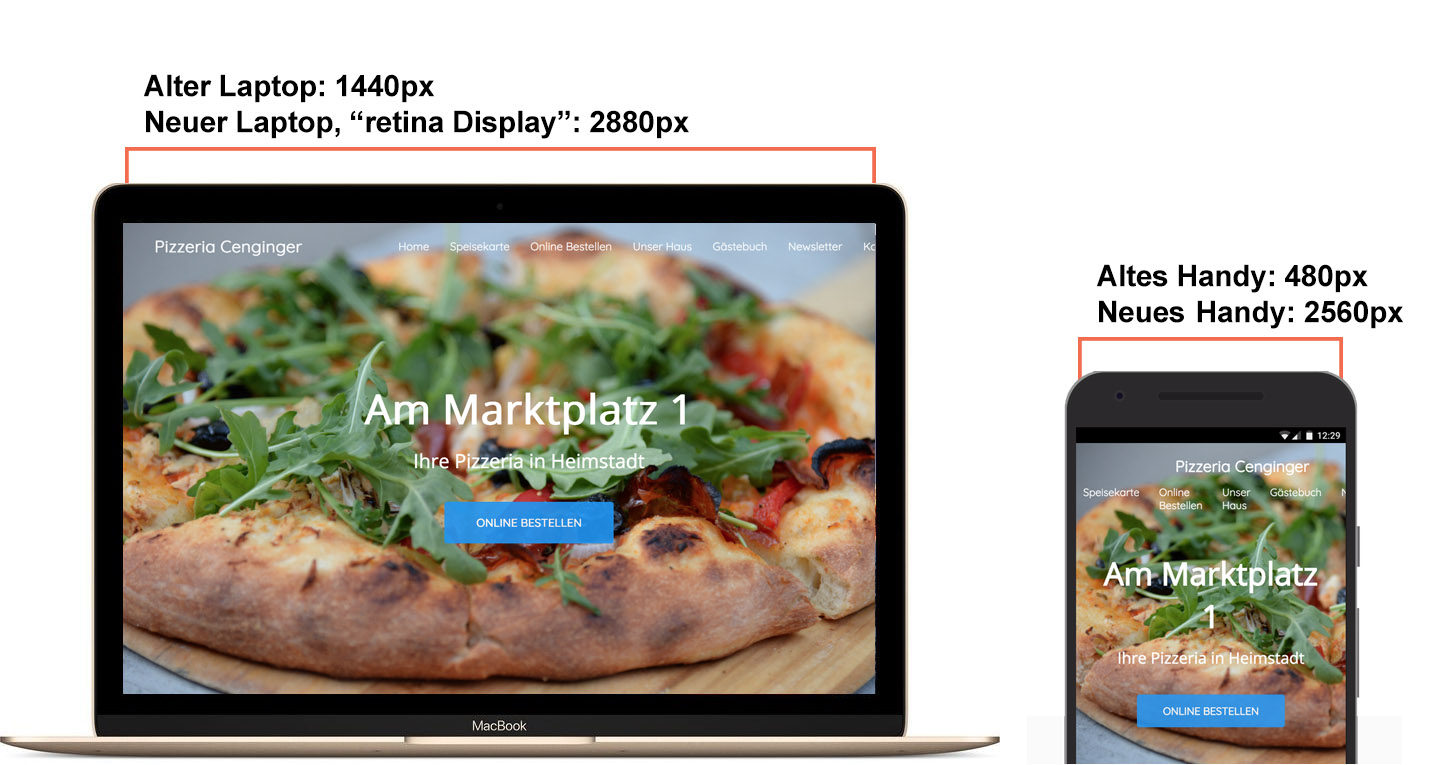
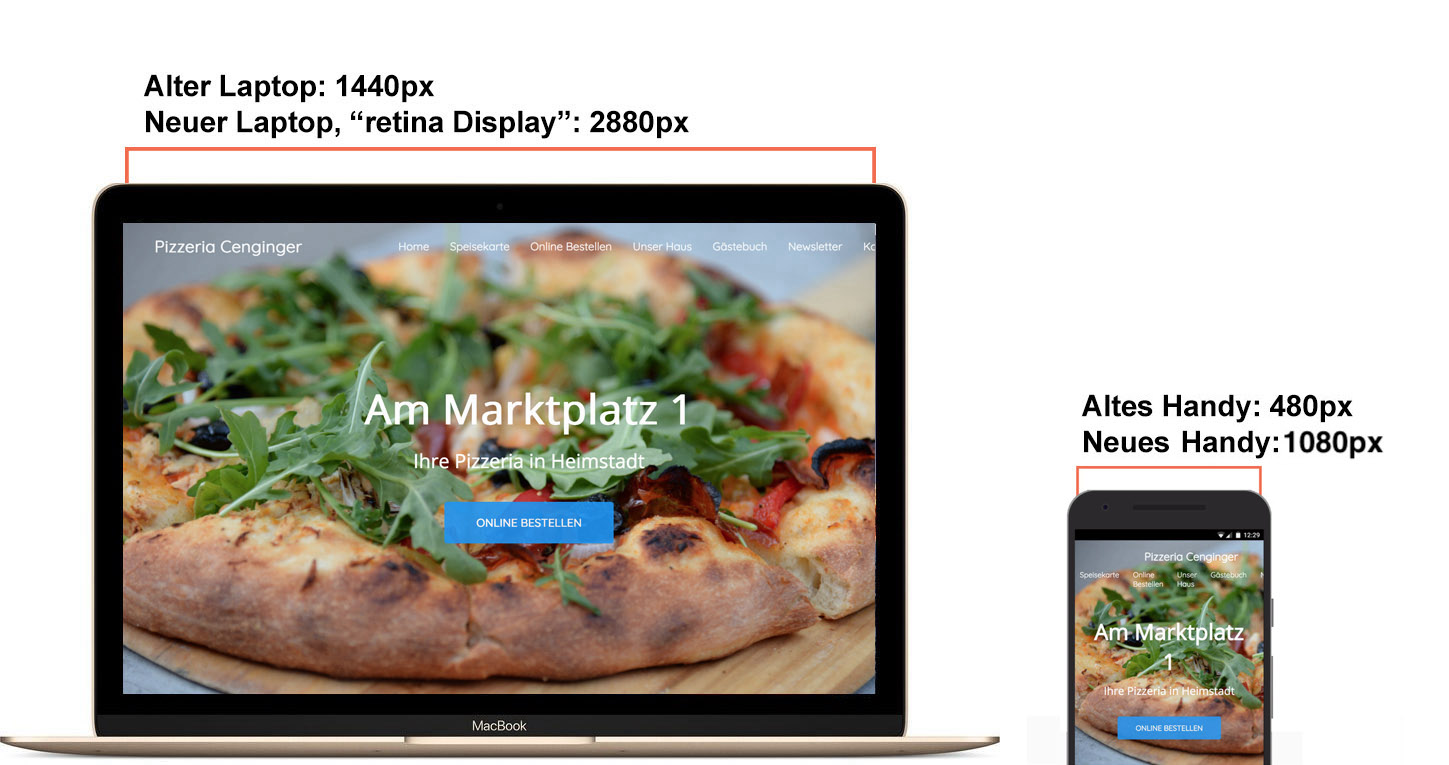
reform css layout + responsive

Changed region(s): [[0.7143, 0.481, 0.9627, 1.0], [0.7453, 0.3307, 0.9627, 0.451]]

diff --git a/content/css-layout/responsive.md b/content/css-layout/responsive.md
@@ -1,10 +1,49 @@
 ---
 title: Responsive Design
-order: 20
+order: 21
 ---
 
-Wie gehen wir mit der Herausforderung der verschiedenen
-Auflösungen und Pixeldichten um?
+Wie im Kapitel [Das Web und HTML](/das-web-und-html/) beschrieben gibt es viele verschiedene Ausgabegeräte für Webseiten. Für die Gestaltung des visuellen Layouts von Webseiten spielt dabei die die Größe des Geräts, die Auflösung und die Pixeldichte eine wichtige Rolle.## Verschiedene visuelle Ausgabegeräte
+
+Wenn wir nur Laptops und Smartphones vergleichen sehen wir schon große
+Unterschiede in der Größe in cm und der Auflösung in Pixel. Die Auflösung hat
+sich über viele Jahre erhöht, scheint nun aber ein Plateau erreicht zu haben:
+
+
+![Laptop vs. Smartphone - viele Möglichkeiten](/images/css-layout/res-and-img.jpg)
+
+## Verschiedene Pixel
+
+Mit [mydevice.io](https://www.mydevice.io/) kann man den aktuellen Browser
+vermessen. Die angezeigten Pixel sind die virtuellen CSS Pixel.
+
+![Laptop vs. Smartphone - ein konkretes Beispiel](/images/css-layout/res-and-mydevice.png )
+
+Der Faktor von "echten" Pixel zu Virtuellen CSS Pixeln wird als "CSS Pixel Ratio" bezeichnet.
+Der Laptop mit 1440 CSS Pixel auf 2880 echte Pixel hat eine CSS Pixel Ratio von 2.
+Das Smartphone mit 360 CSS Pixel auf 1080 echte Pixel hat eine CSS Pixel Ratio von 3.
+
+## CSS Pixel
+
+Im [CSS Standard](https://drafts.csswg.org/css-values-3/#px) findet sich folgende
+Definition und folgende Abbildung:
+
+> The reference pixel is the visual angle of one pixel on a device with a pixel density of 96dpi and a distance from
+> the reader of an arm’s length. For a nominal arm’s length of 28 inches, the visual angle is therefore about
+> 0.0213 degrees. For reading at arm’s length, 1px thus corresponds to about 0.26 mm (1/96 inch).
+>
+> The image below illustrates the effect of viewing distance on the size of a reference pixel: a reading distance
+> of 71 cm (28 inches) results in a reference pixel of 0.26 mm, while a reading distance of 3.5 m (12 feet)
+> results in a reference pixel of 1.3 mm.
+
+![Abbildung aus dem CSS Standard: definition des pixels als Winkel](/images/css-layout/css-pixel-definition.png)
+
+Mit [mydevice.io](https://www.mydevice.io/) kann man den aktuellen Browser
+vermessen. Die angezeigten Pixel sind die virtuellen CSS Pixel. Mit dem Faktor "pixel-ratio" kann man
+die physikalischen Pixel ausrechnen.
+
+By mydevice.io gibt es auch eine [ausführlichere Liste](https://www.mydevice.io/#compare-devices) von aktuellen
+Geräten.
 
 ## Responsive Design
 
@@ -63,11 +102,11 @@ Es gibt sogar mediaqueries für die Präferenz des "dark mode":
 @media (prefers-color-scheme: dark) {
   body {
     color: #ddd;
-    background-color: black; 
-  }  
+    background-color: black;
+  }
   h1,h2,h3 {
     color: #d39060;
-  }  
+  }
 }
 
 @media (prefers-color-scheme: light) {
@@ -77,7 +116,7 @@ background-color: #ffffff;
 }
 h1,h2,h3 {
 color: #333333;
-}  
+}
 }
 </css>
 

diff --git a/content/css-layout/dex.md b/content/css-layout/dex.md
@@ -6,13 +6,13 @@ intro: Nachdem Sie nun einfache Formatierungen im CSS beherrschen lernen Sie, wi
 
 ### Was Sie wissen sollten
 
+* Ich verstehe wie media queries, flexbox und css grid funktionieren.
 * Ich weiss wie verschiedene Auflösung und verschiedene Pixeldichte der Ausgabegeräte die Gestaltung von Webseiten schwierig machen.
 * Ich kenne mit Responsive Design die aktuelle Art mit dieser Schwierigkeit umzugehen.
-* Ich verstehe wie media queries, float und css grid funktionieren.
 
 ### Was Sie können sollten
 * Ich kann an einem bestehen CSS-Layout Veränderungen vornehmen.
-* Ich kann einen grafischen Entwurf mittels HTML und CSS umsetzen.
+* Ich kann einen grafischen Entwurf mittels HTML und CSS, flexbos und grid umsetzen.
 * Ich kann ein statisches Layout mit mediaqueries so erweitern, dass die Webseite bei wesentlich kleineren oder größeren Ausgabegeräten noch sinnvoll dargestellt werden kann.
 
 

diff --git a/content/css-layout/details.md b/content/css-layout/details.md
@@ -1,6 +1,6 @@
 ---
 title: Details zu Layout
-order: 5
+order: 500
 ---
 
 In diesem Kapitel werden weitere Properties vorgestellt,
